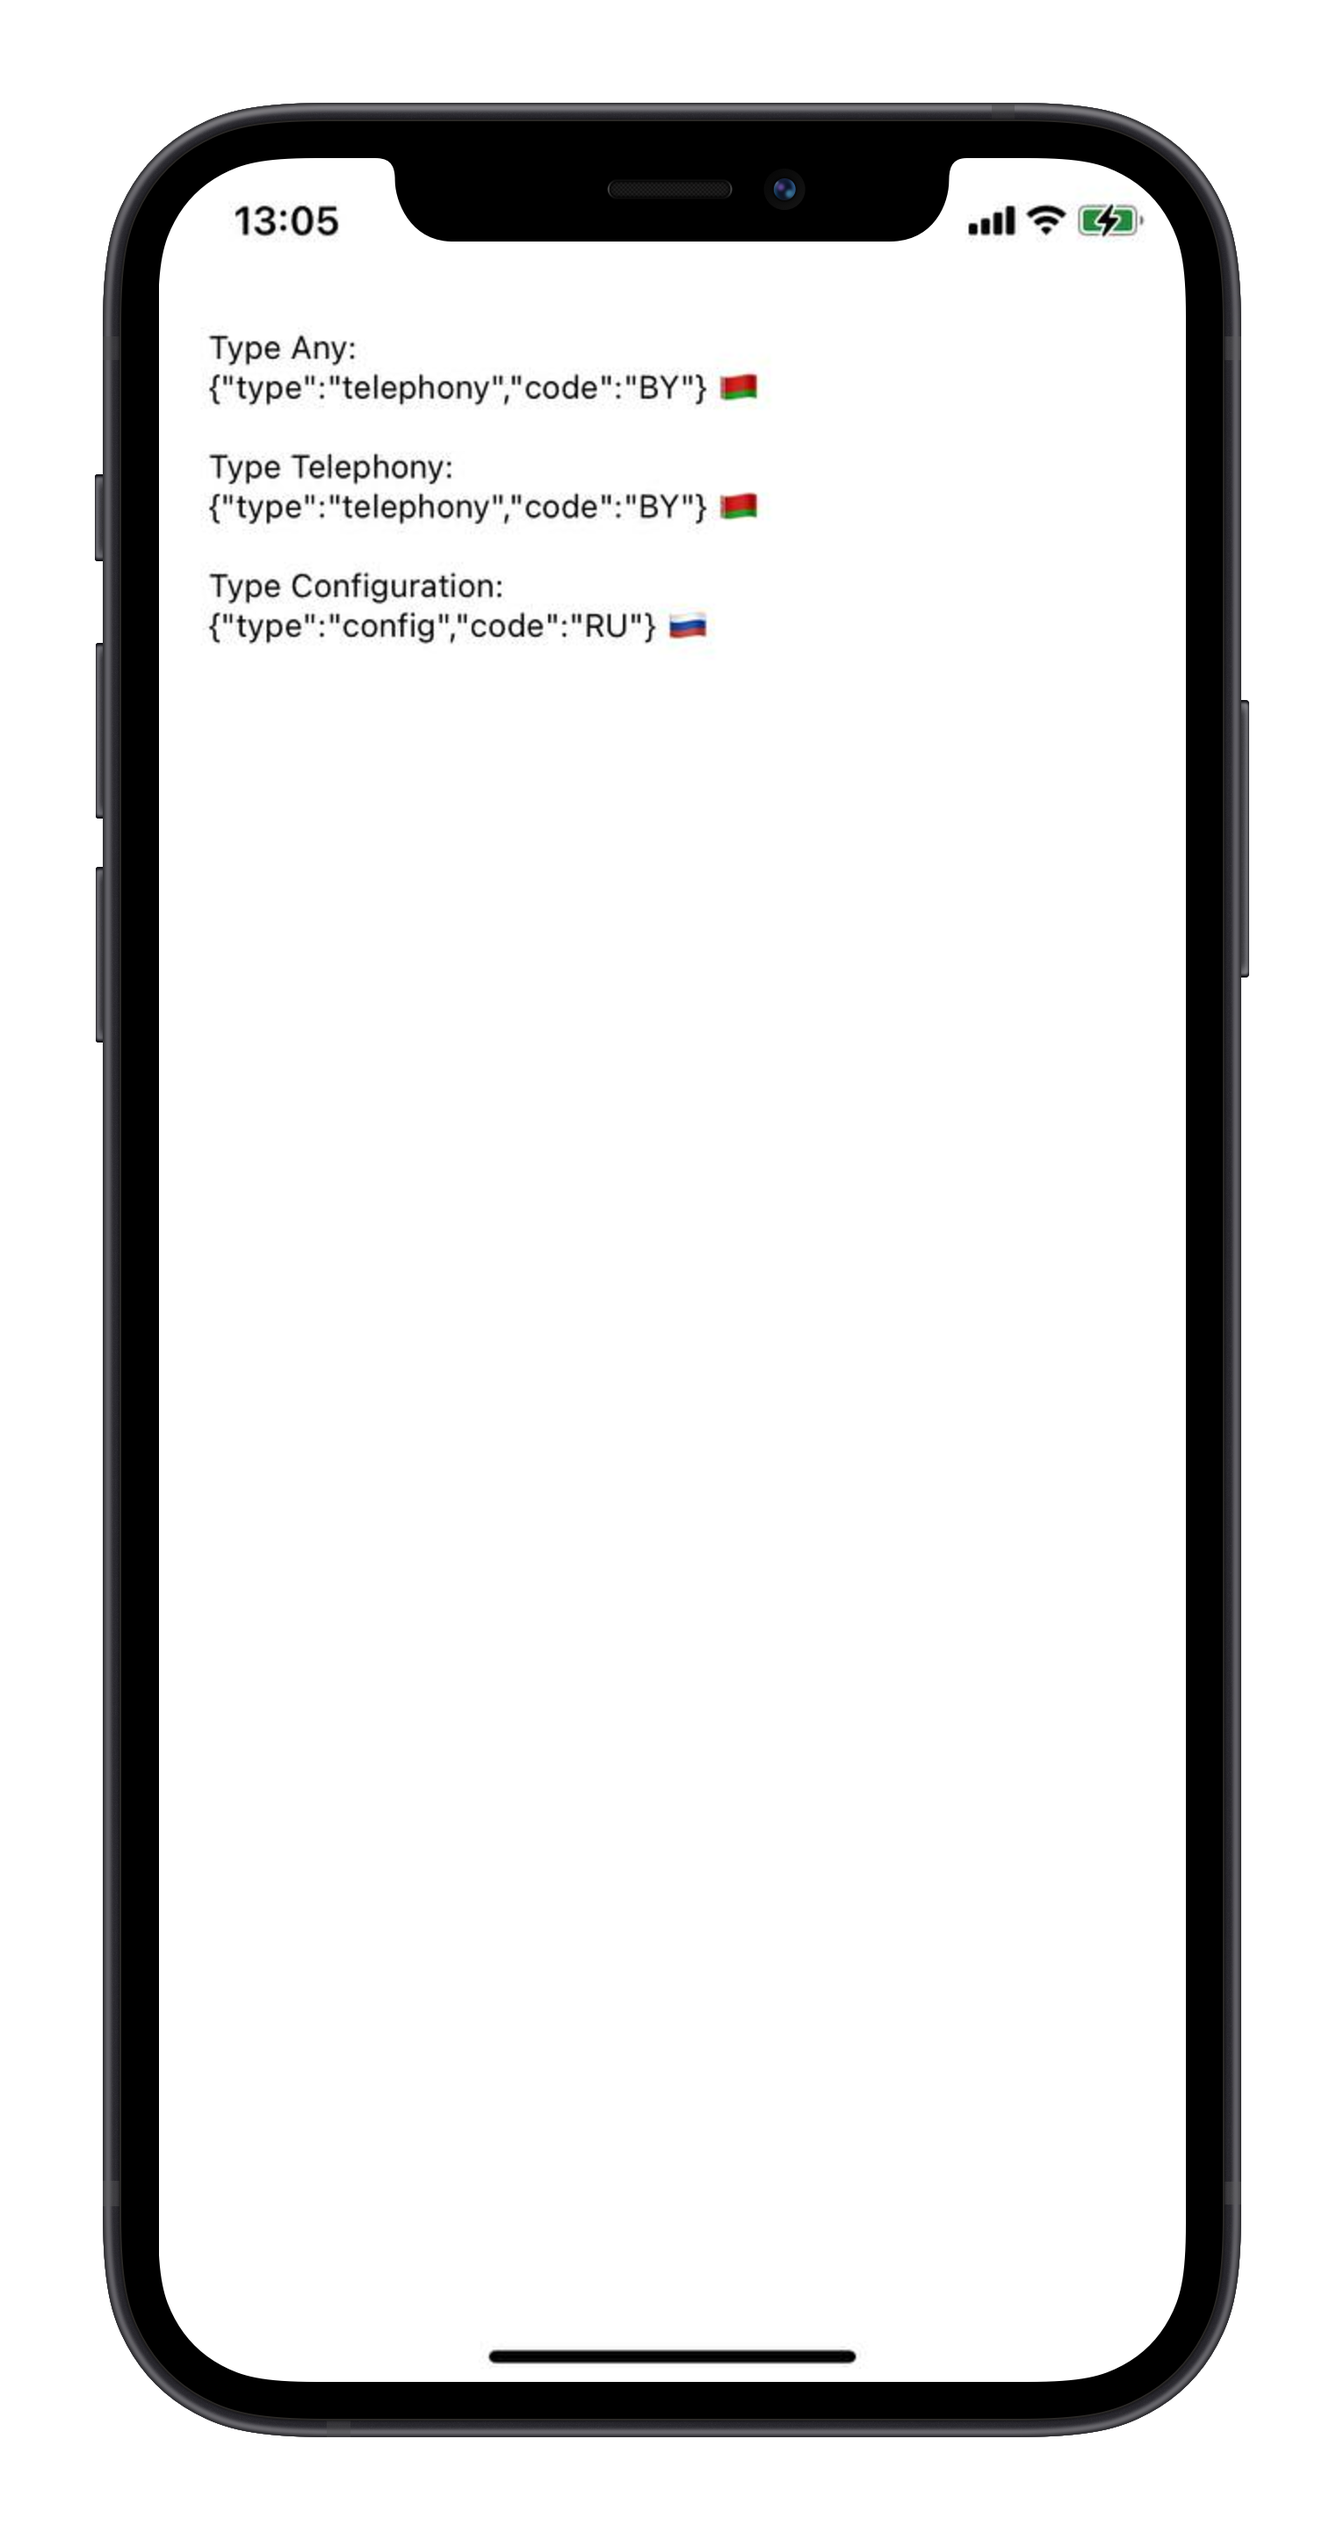
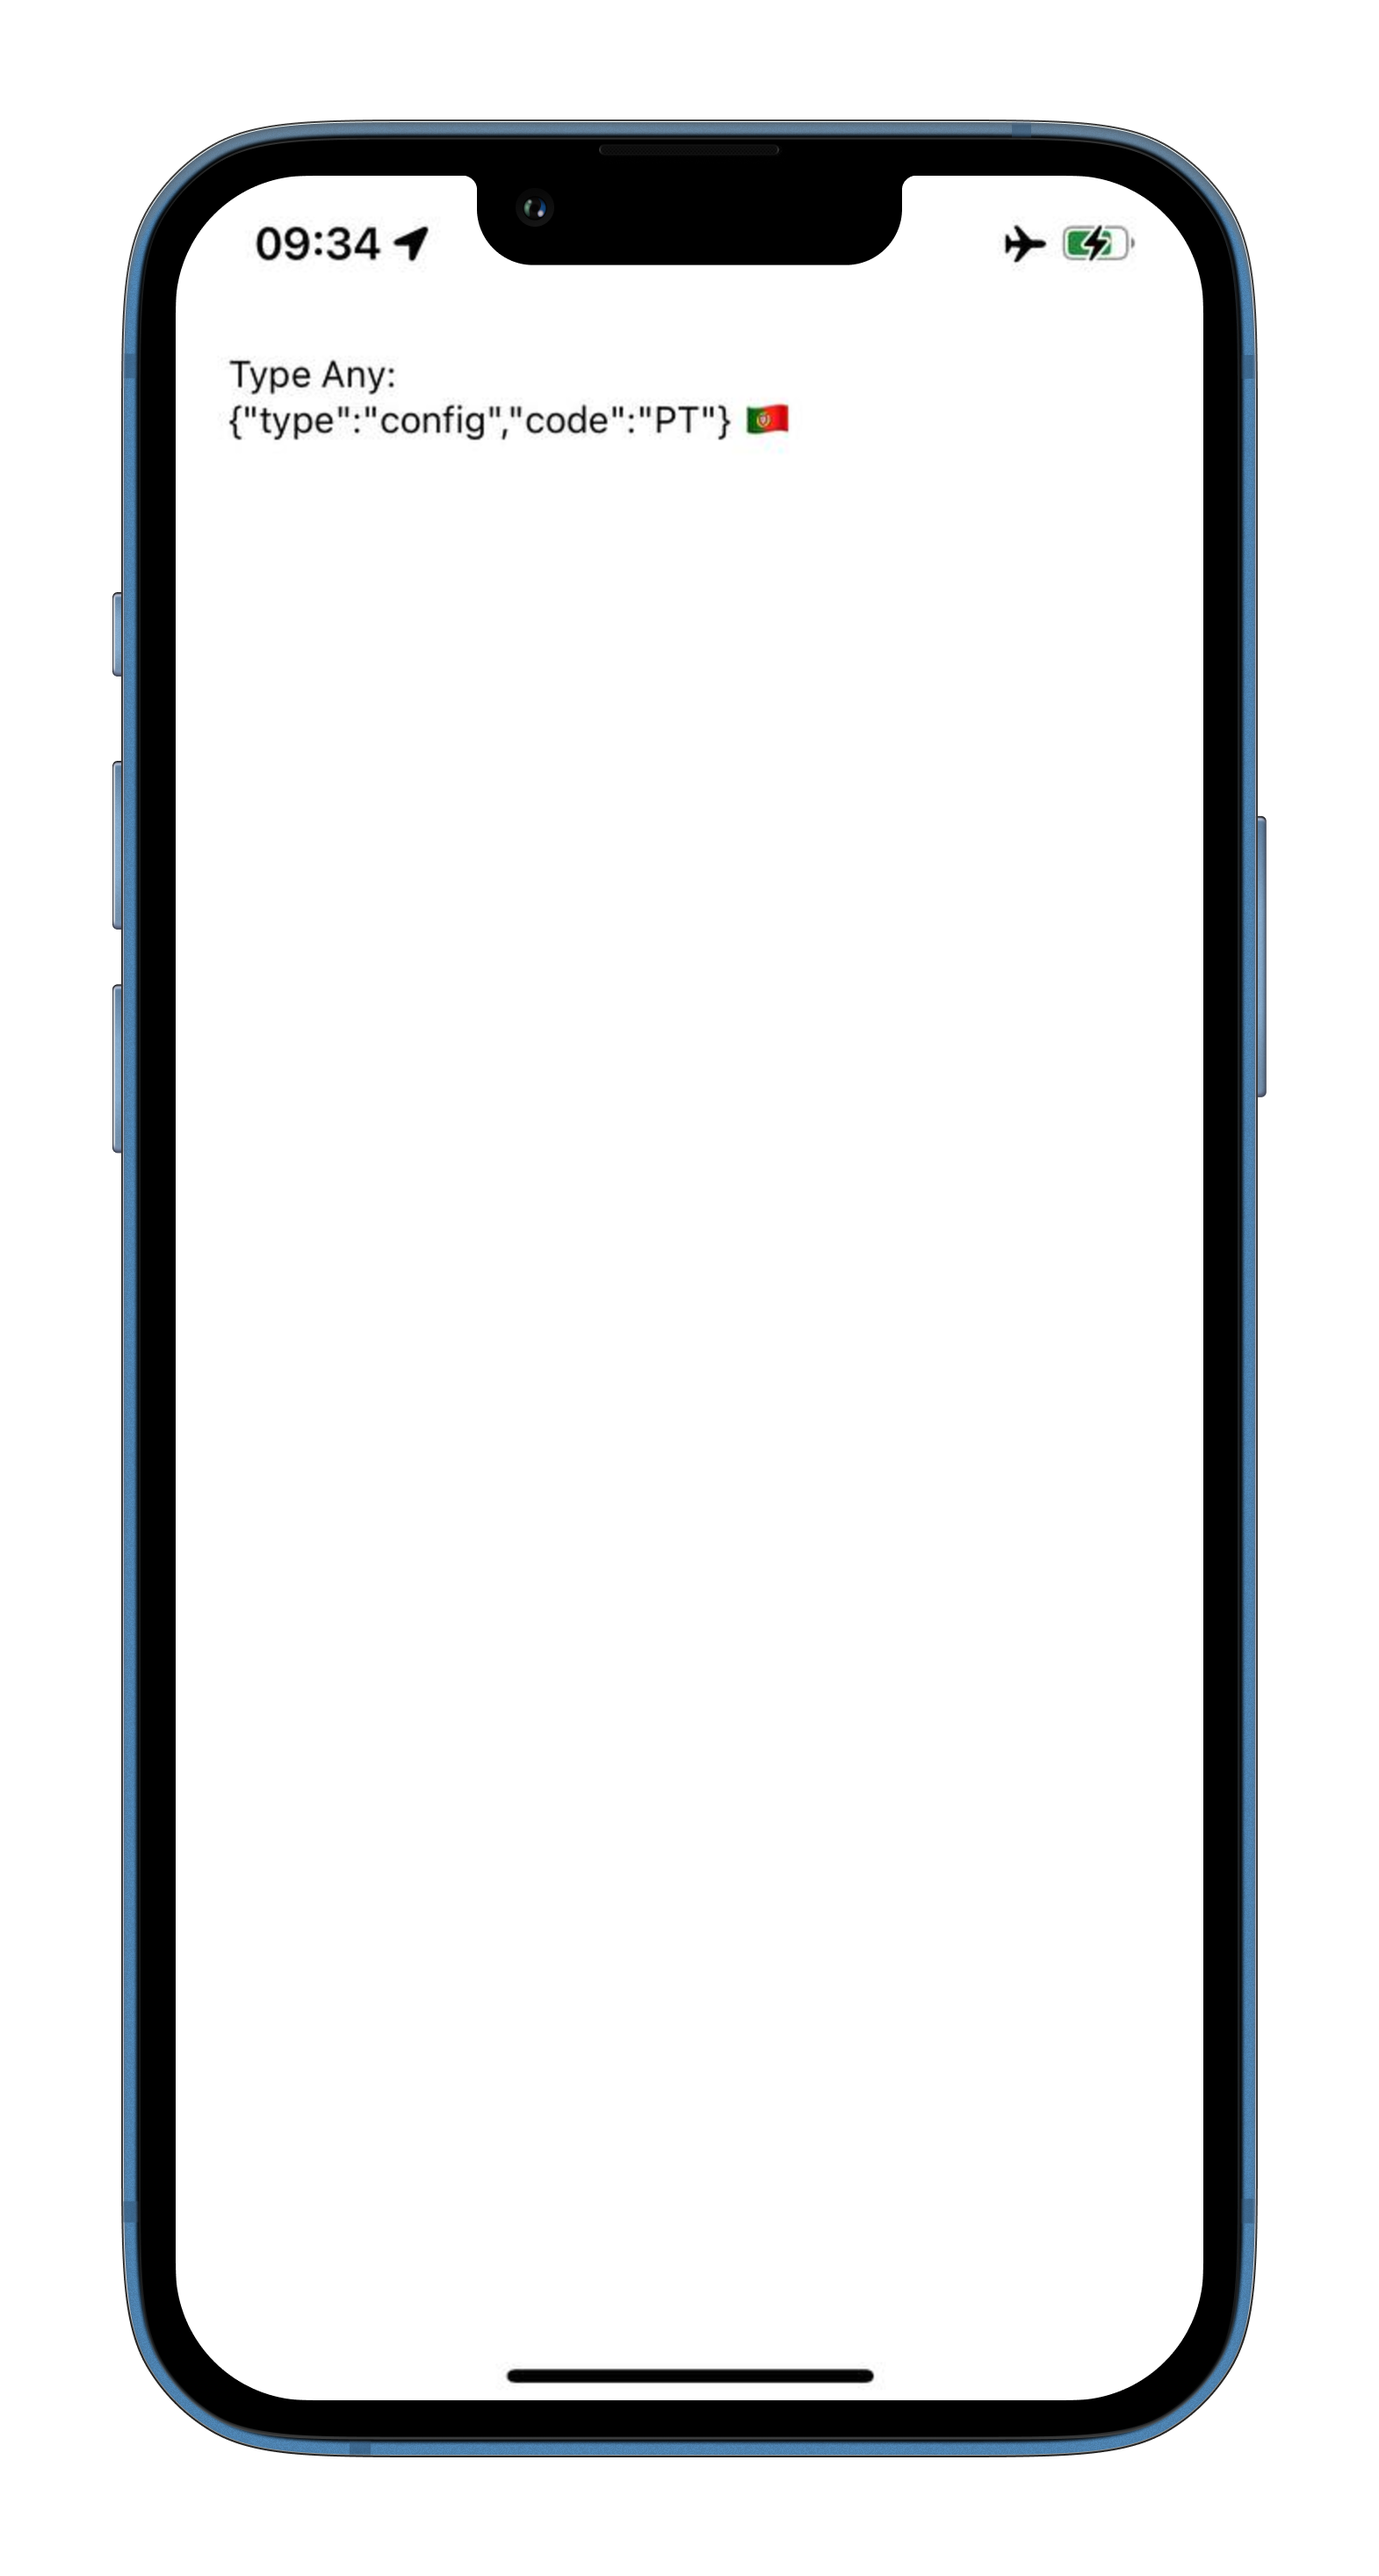
v 1.0.4

Changed region(s): [[0.0614, 0.0311, 0.9523, 0.9647]]

diff --git a/example/src/App.tsx b/example/src/App.tsx
@@ -1,6 +1,13 @@
 import * as React from 'react';
 
-import { StyleSheet, View, Text, SafeAreaView, StatusBar } from 'react-native';
+import {
+  StyleSheet,
+  View,
+  Text,
+  SafeAreaView,
+  StatusBar,
+  Platform,
+} from 'react-native';
 import DeviceCountry, {
   // TYPE_ANY,
   TYPE_TELEPHONY,
@@ -16,19 +23,23 @@ export default function App() {
   const [countryCodeTelephony, setCountryCodeTelephony] = React.useState<
     ResolveType | undefined
   >();
-  const [countryCodeConfiguration, setCountryCodeConfiguration] =
-    React.useState<ResolveType | undefined>();
+  const [
+    countryCodeConfiguration,
+    setCountryCodeConfiguration,
+  ] = React.useState<ResolveType | undefined>();
 
   React.useEffect(() => {
     getCurrentContry().then((result) => {
       setCountryCodeAny(result);
     });
-    getCurrentContry(TYPE_TELEPHONY).then((result) => {
-      setCountryCodeTelephony(result);
-    });
-    getCurrentContry(TYPE_CONFIGURATION).then((result) => {
-      setCountryCodeConfiguration(result);
-    });
+    if (Platform.OS != 'ios') {
+      getCurrentContry(TYPE_TELEPHONY).then((result) => {
+        setCountryCodeTelephony(result);
+      });
+      getCurrentContry(TYPE_CONFIGURATION).then((result) => {
+        setCountryCodeConfiguration(result);
+      });
+    }
   }, []);
 
   const getCurrentContry = async (type?: Types) => {

diff --git a/src/index.tsx b/src/index.tsx
@@ -1,4 +1,4 @@
-import { NativeModules } from 'react-native';
+import { NativeModules, Platform } from 'react-native';
 const { DeviceCountryModule } = NativeModules;
 export const TYPE_ANY = 'any';
 export const TYPE_TELEPHONY = 'telephony';
@@ -14,16 +14,34 @@ export interface ResolveType {
   type: string;
 }
 
-export const getCountryCode = (type?: Types) => {
+export const getCountryCodeIOS = () => {
   return new Promise<ResolveType>((resolve, reject) => {
-    DeviceCountryModule.getCountryCode(type || TYPE_ANY)
-      .then((result: Object | string) => {
-        resolve(typeof result === 'object' ? result : JSON.parse(result));
+    DeviceCountryModule.getCountryCode(TYPE_CONFIGURATION)
+      .then((result: ResolveType) => {
+        resolve(result);
       })
       .catch((e: any) => {
         reject(e);
       });
   });
+};
+
+export const getCountryCodeAndroid = (type?: Types) => {
+  return new Promise<ResolveType>((resolve, reject) => {
+    DeviceCountryModule.getCountryCode(type || TYPE_ANY)
+      .then((result: string) => {
+        resolve(JSON.parse(result));
+      })
+      .catch((e: any) => {
+        reject(e);
+      });
+  });
+};
+
+export const getCountryCode = (type?: Types) => {
+  return Platform.OS === 'ios'
+    ? getCountryCodeIOS()
+    : getCountryCodeAndroid(type);
 };
 
 export default {

diff --git a/README.md b/README.md
@@ -2,7 +2,7 @@
 
 # react-native-device-country
 
-Get device location by telephony (SIM card) or settings without using GPS tracker
+Get device location settings without using GPS tracker or by telephony (SIM card) (Android only)
 
 [![npm version](https://badge.fury.io/js/react-native-device-country.svg)](https://www.npmjs.org/package/react-native-device-country)
 [![npm](https://img.shields.io/npm/dt/react-native-device-country.svg)](https://www.npmjs.org/package/react-native-device-country)
@@ -11,7 +11,10 @@ Get device location by telephony (SIM card) or settings without using GPS tracke
 [![Platform - Android](https://img.shields.io/badge/platform-Android-3ddc84.svg?style=flat&logo=android)](https://www.android.com)
 [![Platform - iOS](https://img.shields.io/badge/platform-iOS-000.svg?style=flat&logo=apple)](https://developer.apple.com/ios)
 
+<p float="left">
 <img width="400" height="auto" center src="https://github.com/dev-family/react-native-device-country/blob/main/docs/screenshot.png?raw=true" />
+<img width="400" height="auto" center src="https://github.com/dev-family/react-native-device-country/blob/main/docs/screenshot_android.png?raw=true" />
+</p>
 
 ## Installation
 
@@ -30,11 +33,7 @@ _Don't forget to run `pod install` after that!_
 ## Usage
 
 ```js
-import DeviceCountry, {
-  TYPE_ANY,
-  TYPE_TELEPHONY,
-  TYPE_CONFIGURATION,
-} from 'react-native-device-country';
+import DeviceCountry from 'react-native-device-country';
 
 // ...
 
@@ -48,35 +47,41 @@ DeviceCountry.getCountryCode()
   });
 ```
 
-### You can use spicific method for getting country
+### On Android you can use spicific method for getting country
 
 `TYPE_TELEPHONY` for getting country code from SIM card
 
 ```js
+import DeviceCountry, {
+  TYPE_TELEPHONY,
+  TYPE_CONFIGURATION,
+  TYPE_ANY,
+} from 'react-native-device-country';
+
 DeviceCountry.getCountryCode(TYPE_TELEPHONY)
   .then((result) => {
     console.log(result);
-    // {"code": "BY", "type": "telephony"}
+    // {"code": "PT", "type": "telephony"}
   })
   .catch((e) => {
     console.log(e);
   });
 ```
 
-or `TYPE_CONFIGURATION` for getting country code from phone location settings on iOS and phone language settings on Android
+or `TYPE_CONFIGURATION` for getting country code from phone language settings on Android
 
 ```js
 DeviceCountry.getCountryCode(TYPE_CONFIGURATION)
   .then((result) => {
     console.log(result);
-    // {"code": "BY", "type": "config"}
+    // {"code": "RU", "type": "config"}
   })
   .catch((e) => {
     console.log(e);
   });
 ```
 
-`TYPE_ANY` will be used by default. It tries to use `TYPE_TELEPHONY` and fallbacks with `TYPE_CONFIGURATION`, if devive without SIM card.
+`TYPE_ANY` will be used by default. It tries to use `TYPE_TELEPHONY` (on Android) and fallbacks with `TYPE_CONFIGURATION`, if devive without SIM card.
 
 ## Contributing
 

diff --git a/CHANGELOG.md b/CHANGELOG.md
@@ -1,5 +1,12 @@
 # Changelog
 
+## v1.0.4
+
+### Changed
+
+- From IOS 16.0 [CTCarrier was deprecated](https://developer.apple.com/documentation/coretelephony/cttelephonynetworkinfo/3024511-servicesubscribercellularprovide/). See [issue](https://github.com/dev-family/react-native-device-country/issues/7).
+  Therefore, on IOS it is now possible to get only the country code from the phone settings and passing types are not supported.
+
 ## v1.0.2
 
 ### Fixed
